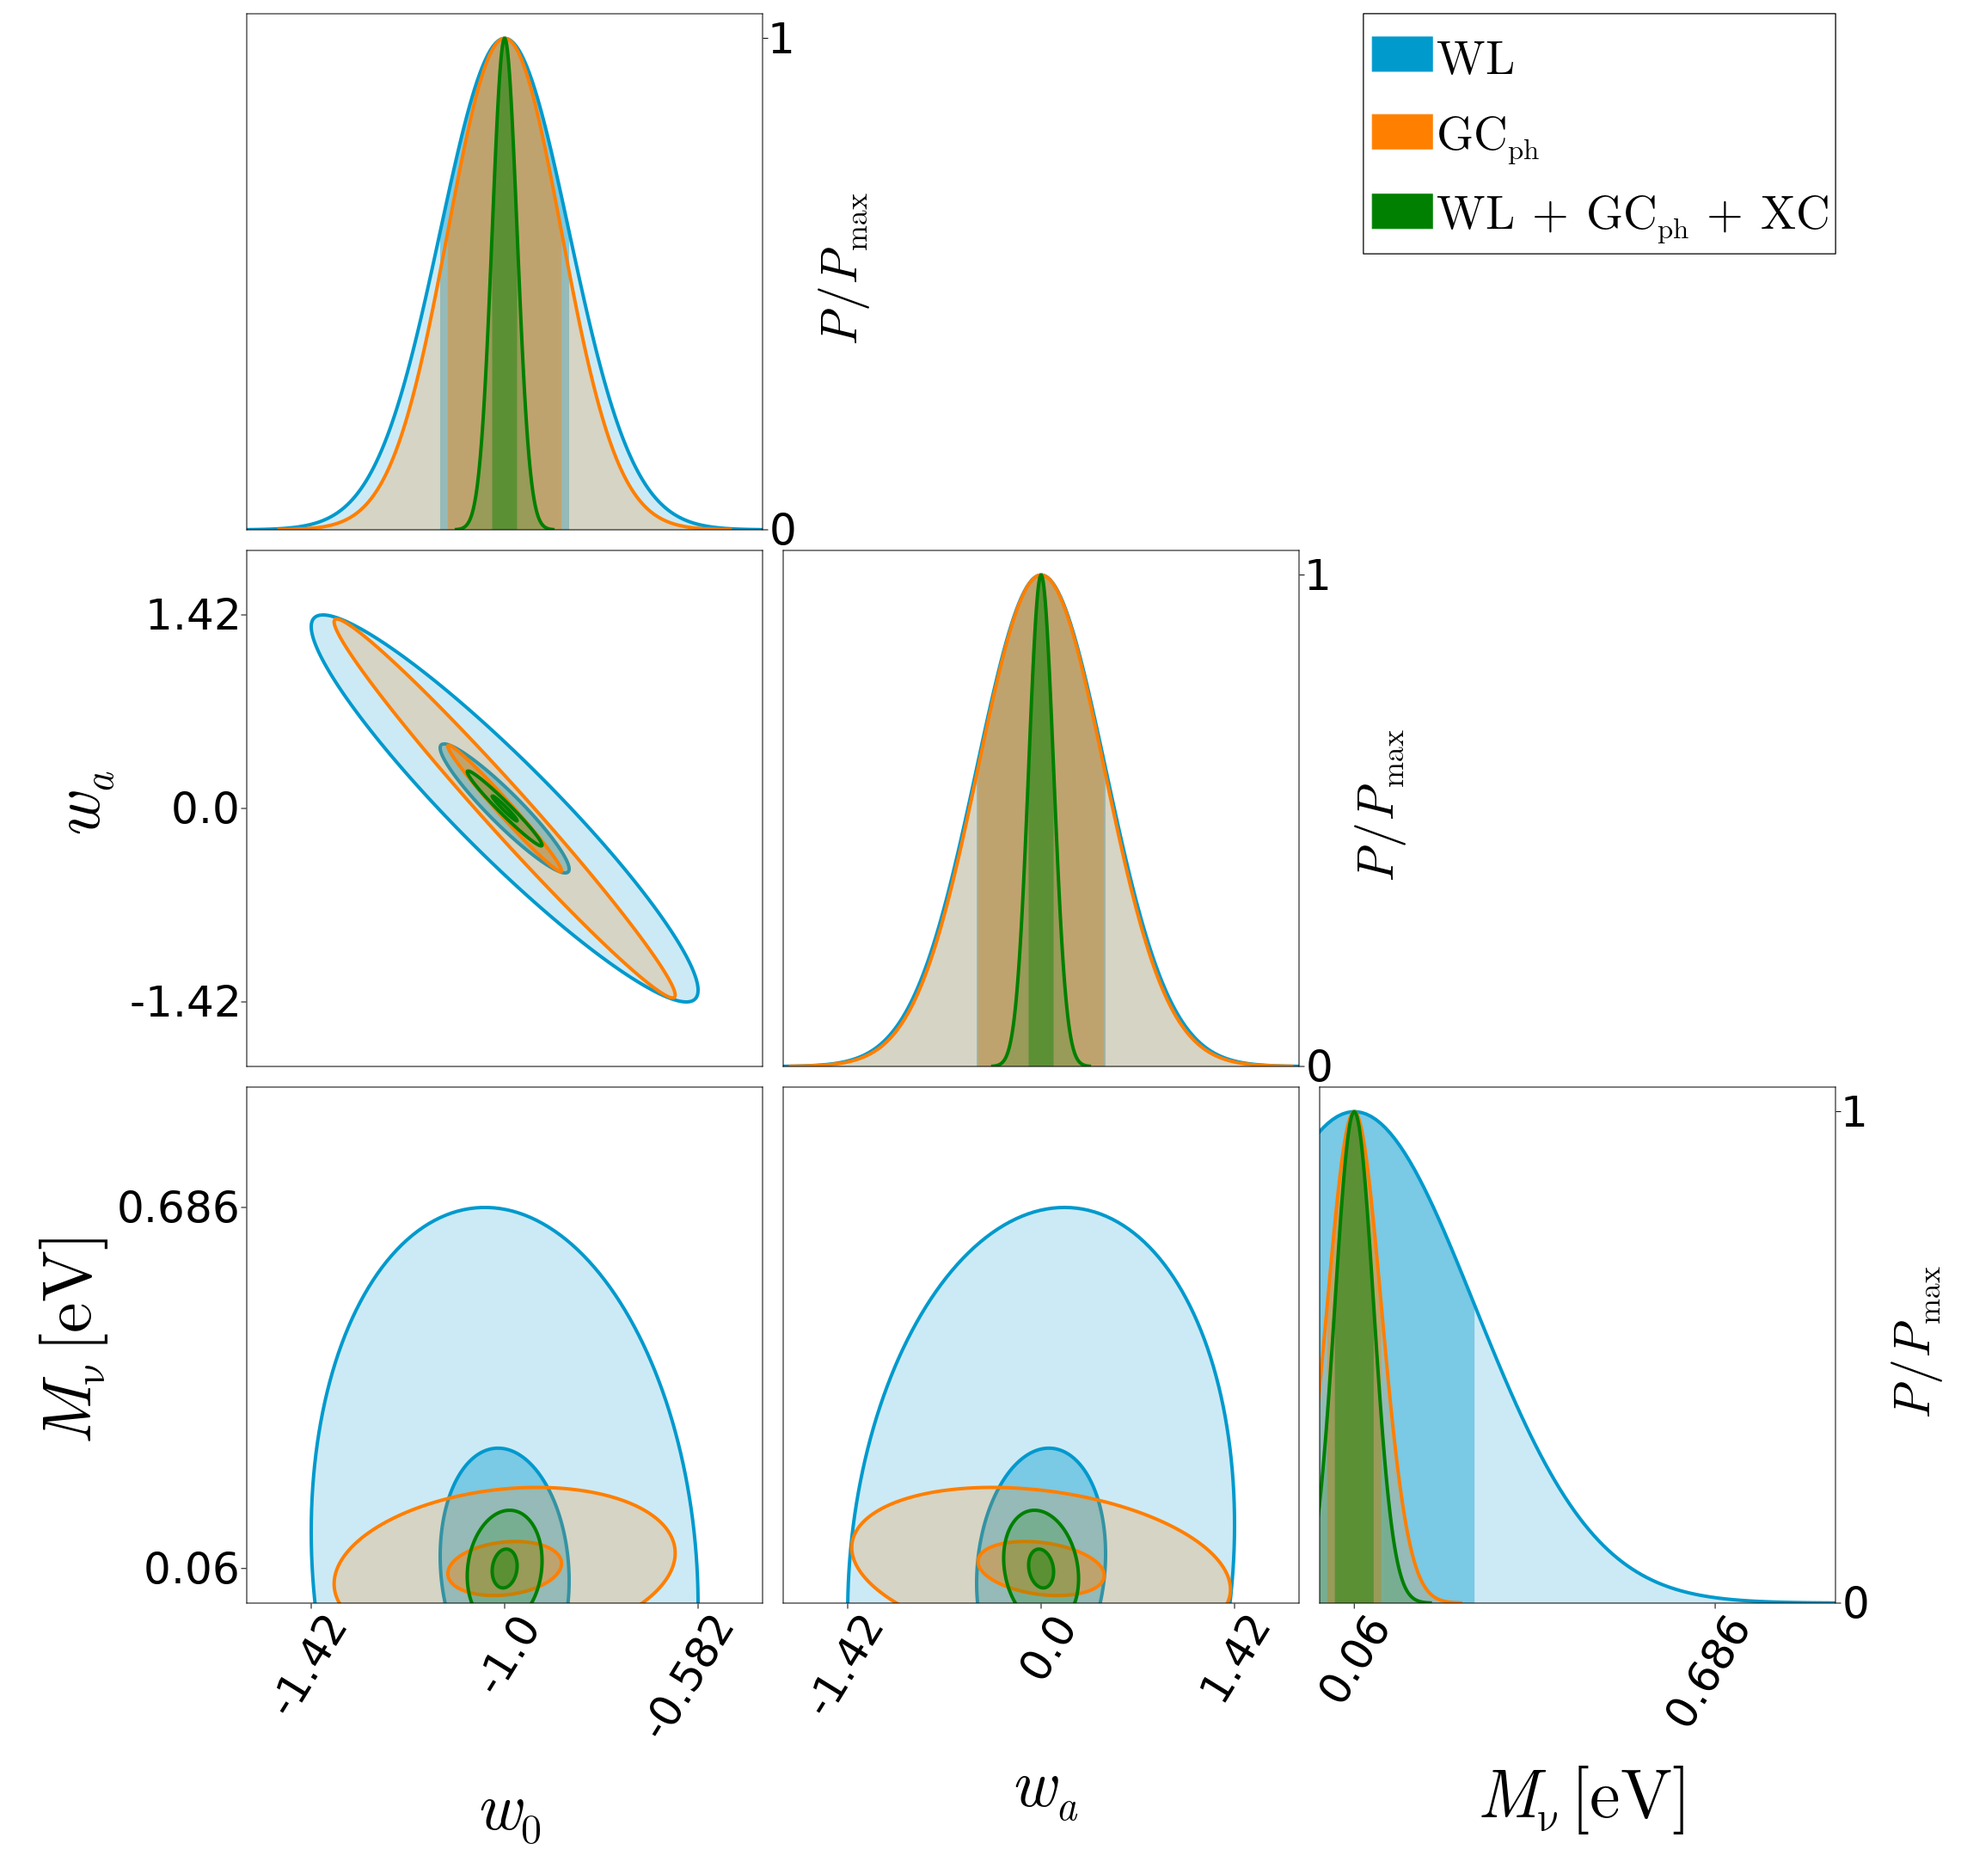
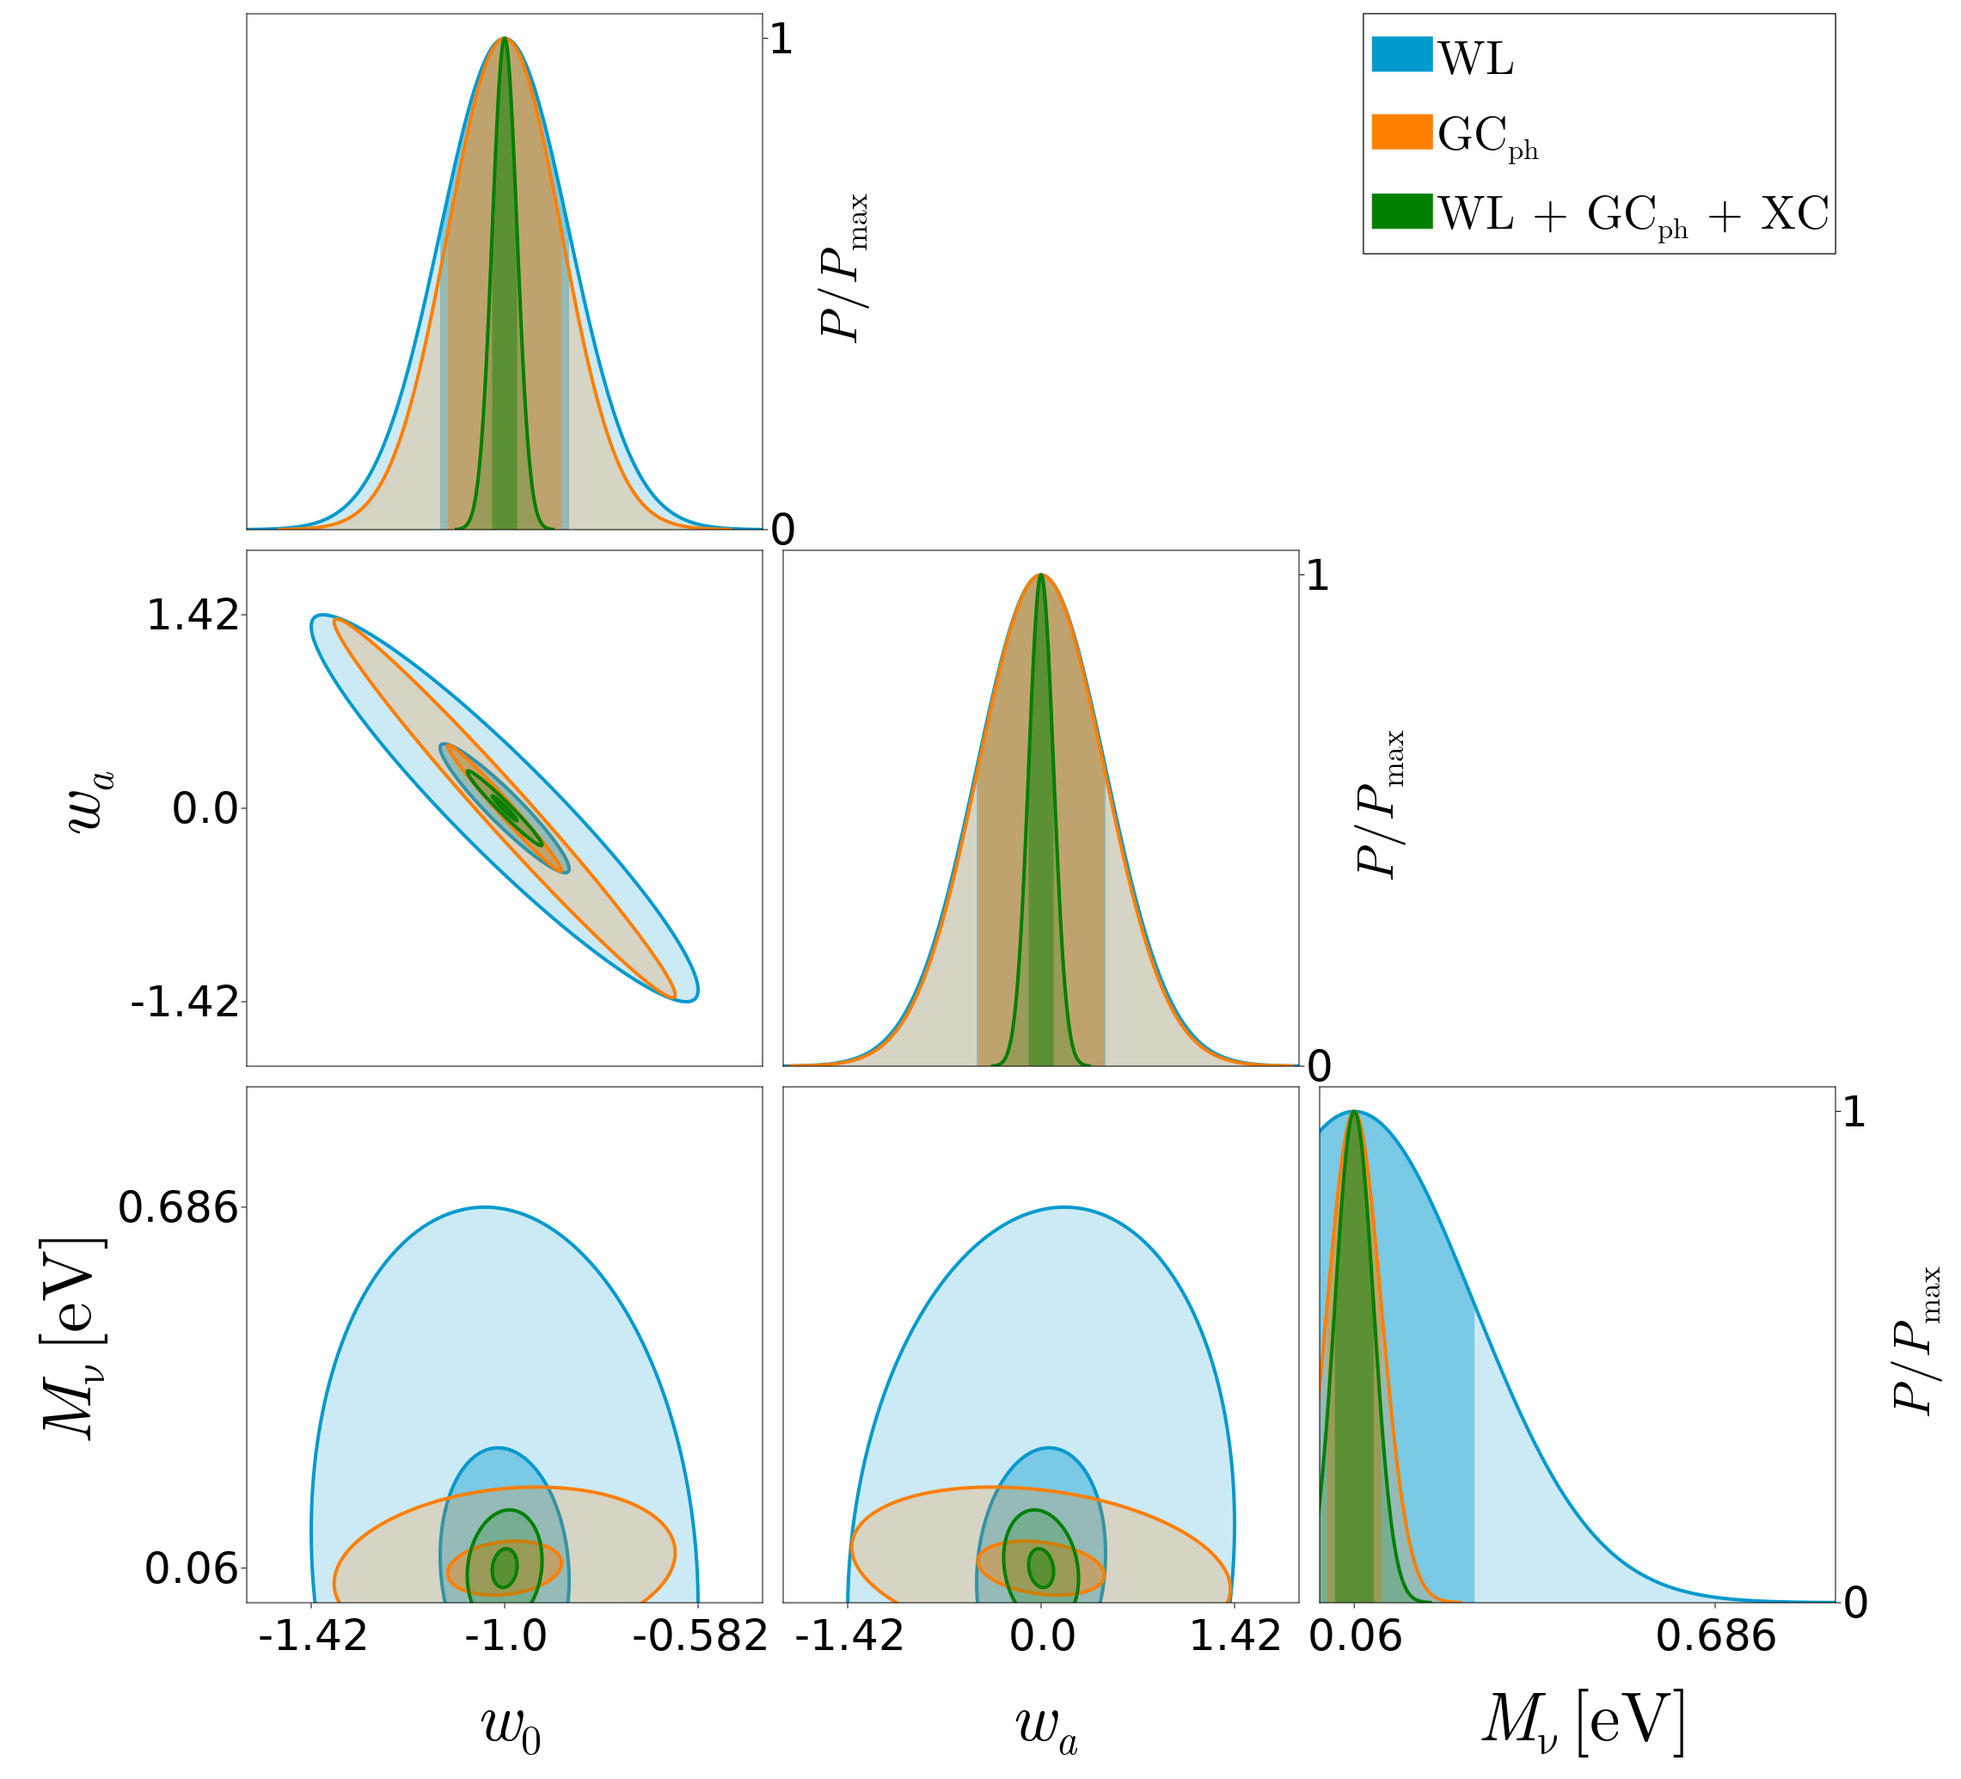
Deploying to gh-pages from  @ c53182c6f24865f7b0ea8914bde0e789d4ce229c 🚀

diff --git a/blog/fisher-plot/index.html b/blog/fisher-plot/index.html
@@ -13,7 +13,7 @@ colors = [<span class=hljs-string >&quot;deepskyblue3&quot;</span>, <span class=
 <span class=hljs-string >&quot;textsize&quot;</span> =&gt; <span class=hljs-number >40</span>,
 <span class=hljs-string >&quot;PPmaxlabelsize&quot;</span> =&gt; <span class=hljs-number >60</span>,
 <span class=hljs-string >&quot;font&quot;</span> =&gt; <span class=hljs-string >&quot;Dejavu Sans&quot;</span>,
-<span class=hljs-string >&quot;xticklabelrotation&quot;</span> =&gt; <span class=hljs-number >45.</span>)</code></pre> <p>We are almost there&#33; We now need to set up the central values for each parameter, the plot ranges and where we want to put the tick labels. This is something that you should take care of. For instance, we know that the sum of the neutrino masses <span class=katex ><span class=katex-mathml ><math xmlns="http://www.w3.org/1998/Math/MathML"><semantics><mrow><msub><mi>M</mi><mi>ν</mi></msub></mrow><annotation encoding="application/x-tex">M_\nu</annotation></semantics></math></span><span class=katex-html  aria-hidden=true ><span class=base ><span class=strut  style="height:0.8333em;vertical-align:-0.15em;"></span><span class=mord ><span class="mord mathnormal" style="margin-right:0.10903em;">M</span><span class=msupsub ><span class="vlist-t vlist-t2"><span class=vlist-r ><span class=vlist  style="height:0.1514em;"><span style="top:-2.55em;margin-left:-0.109em;margin-right:0.05em;"><span class=pstrut  style="height:2.7em;"></span><span class="sizing reset-size6 size3 mtight"><span class="mord mathnormal mtight" style="margin-right:0.06366em;">ν</span></span></span></span><span class=vlist-s ></span></span><span class=vlist-r ><span class=vlist  style="height:0.15em;"><span></span></span></span></span></span></span></span></span></span> is positive, so we want to avoid plotting the posterior for negative masses. In this particular case, we are going to use the Weak Lensing errors in order to decide the plot ranges.</p> <div class=suggestion ><strong>Suggestion</strong>: <em>Plot ranges</em>. As a rule of thumb, take for the plot limits and ticks, respectively, 4 and 3 <span class=katex ><span class=katex-mathml ><math xmlns="http://www.w3.org/1998/Math/MathML"><semantics><mrow><mi>σ</mi></mrow><annotation encoding="application/x-tex">\sigma</annotation></semantics></math></span><span class=katex-html  aria-hidden=true ><span class=base ><span class=strut  style="height:0.4306em;"></span><span class="mord mathnormal" style="margin-right:0.03588em;">σ</span></span></span></span>&#39;s and worse constrained Fisher Matrix. Of course you may prefer something different, but this should give you a good starting point.</div> <pre><code class="julia hljs">central_values = [-<span class=hljs-number >1.</span>, <span class=hljs-number >0.</span>, <span class=hljs-number >0.06</span>]
+<span class=hljs-string >&quot;xticklabelrotation&quot;</span> =&gt; <span class=hljs-number >0.</span>)</code></pre> <p>We are almost there&#33; We now need to set up the central values for each parameter, the plot ranges and where we want to put the tick labels. This is something that you should take care of. For instance, we know that the sum of the neutrino masses <span class=katex ><span class=katex-mathml ><math xmlns="http://www.w3.org/1998/Math/MathML"><semantics><mrow><msub><mi>M</mi><mi>ν</mi></msub></mrow><annotation encoding="application/x-tex">M_\nu</annotation></semantics></math></span><span class=katex-html  aria-hidden=true ><span class=base ><span class=strut  style="height:0.8333em;vertical-align:-0.15em;"></span><span class=mord ><span class="mord mathnormal" style="margin-right:0.10903em;">M</span><span class=msupsub ><span class="vlist-t vlist-t2"><span class=vlist-r ><span class=vlist  style="height:0.1514em;"><span style="top:-2.55em;margin-left:-0.109em;margin-right:0.05em;"><span class=pstrut  style="height:2.7em;"></span><span class="sizing reset-size6 size3 mtight"><span class="mord mathnormal mtight" style="margin-right:0.06366em;">ν</span></span></span></span><span class=vlist-s ></span></span><span class=vlist-r ><span class=vlist  style="height:0.15em;"><span></span></span></span></span></span></span></span></span></span> is positive, so we want to avoid plotting the posterior for negative masses. In this particular case, we are going to use the Weak Lensing errors in order to decide the plot ranges.</p> <div class=suggestion ><strong>Suggestion</strong>: <em>Plot ranges</em>. As a rule of thumb, take for the plot limits and ticks, respectively, 4 and 3 <span class=katex ><span class=katex-mathml ><math xmlns="http://www.w3.org/1998/Math/MathML"><semantics><mrow><mi>σ</mi></mrow><annotation encoding="application/x-tex">\sigma</annotation></semantics></math></span><span class=katex-html  aria-hidden=true ><span class=base ><span class=strut  style="height:0.4306em;"></span><span class="mord mathnormal" style="margin-right:0.03588em;">σ</span></span></span></span>&#39;s and worse constrained Fisher Matrix. Of course you may prefer something different, but this should give you a good starting point.</div> <pre><code class="julia hljs">central_values = [-<span class=hljs-number >1.</span>, <span class=hljs-number >0.</span>, <span class=hljs-number >0.06</span>]
 
 limits = zeros(<span class=hljs-number >3</span>,<span class=hljs-number >2</span>)
 ticks = zeros(<span class=hljs-number >3</span>,<span class=hljs-number >2</span>)
